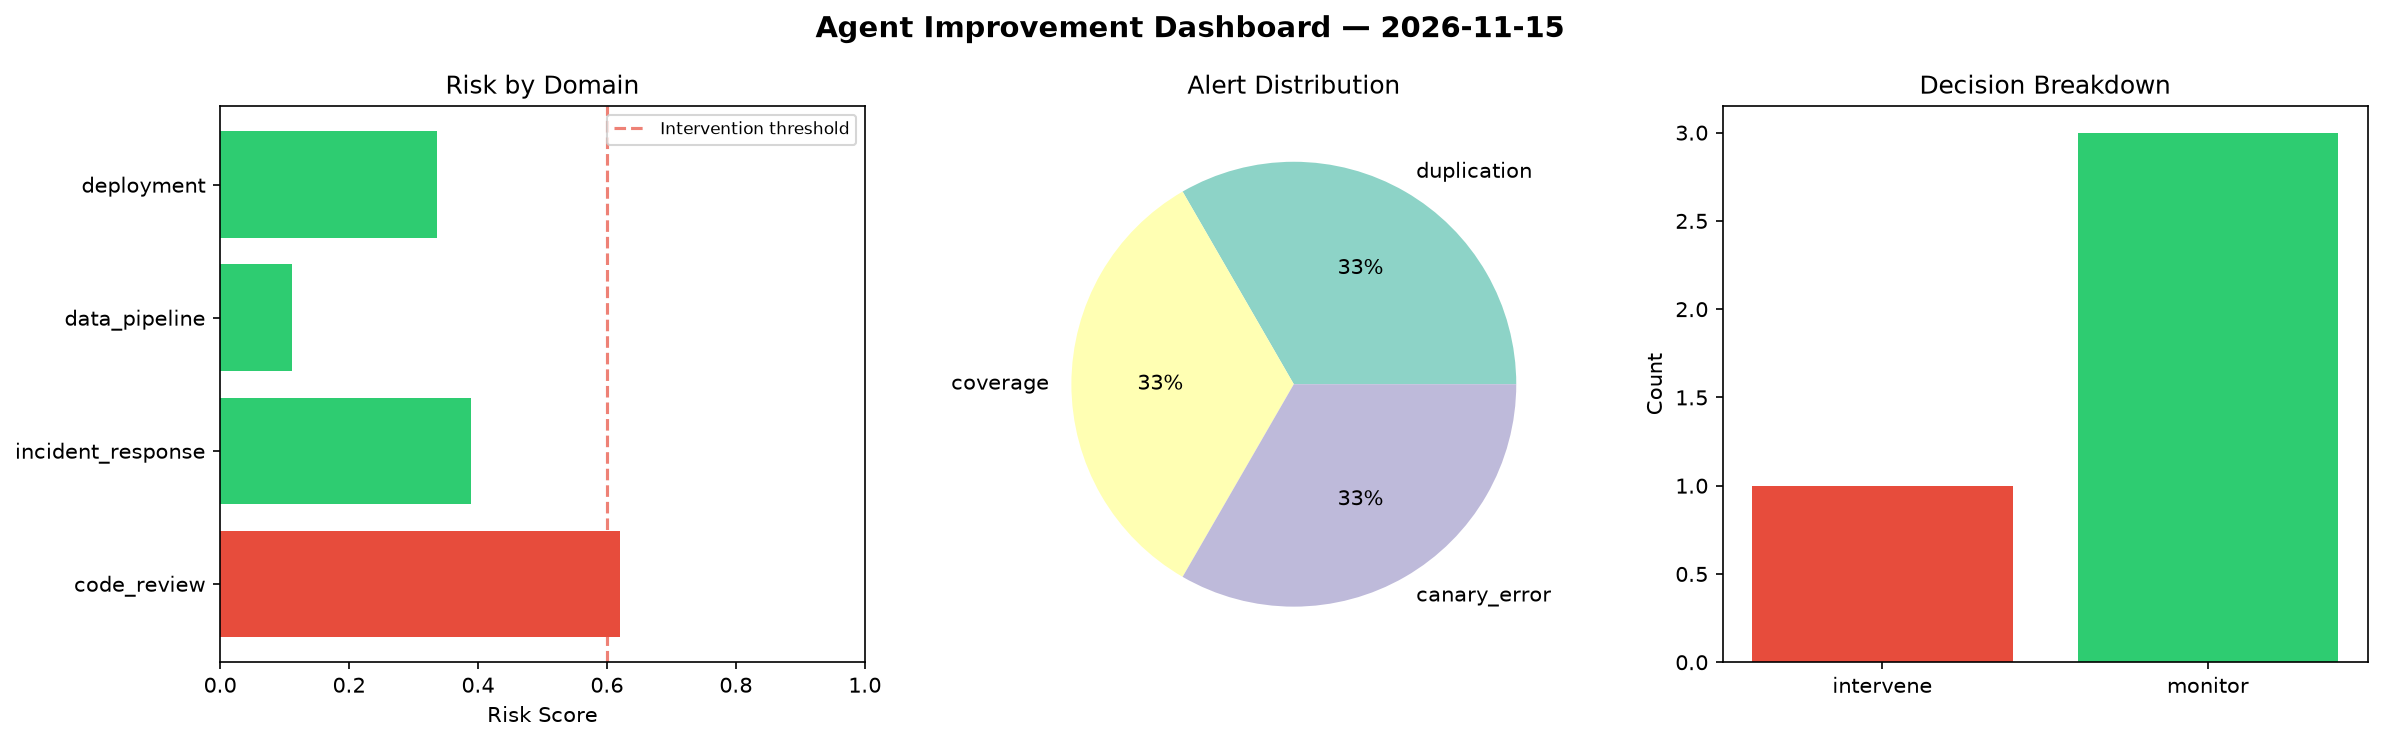
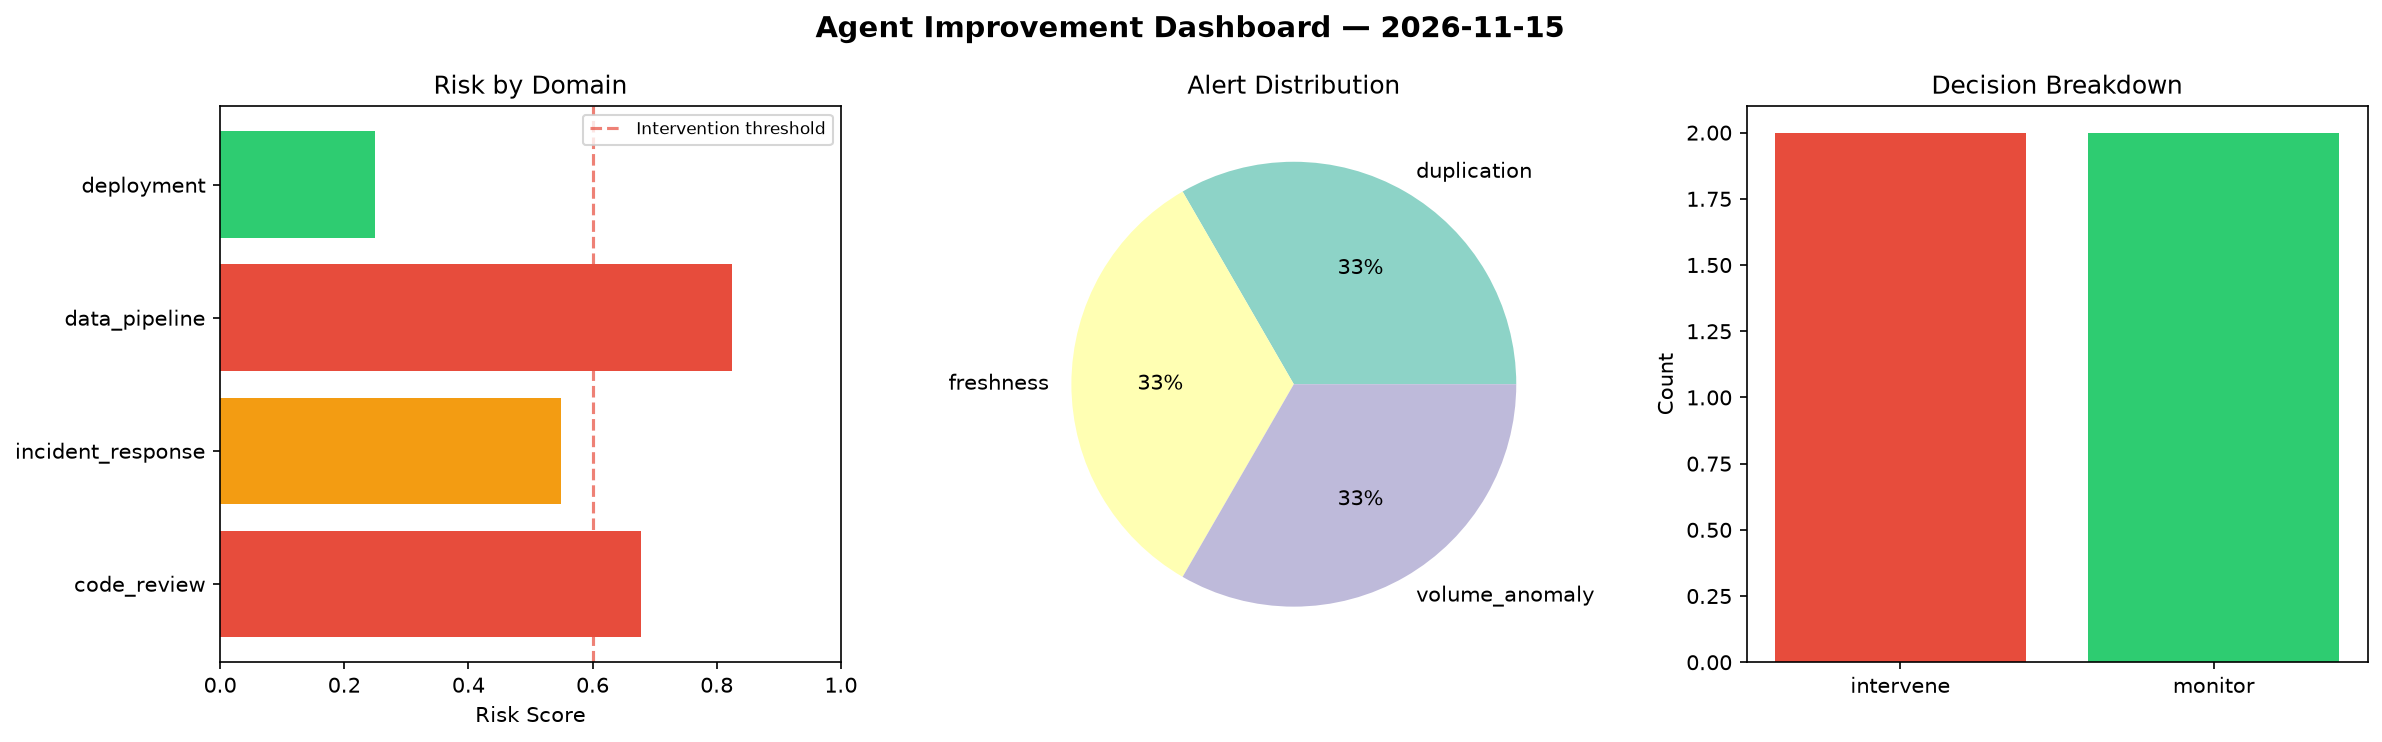
agent-improvement: daily cycle 2026-11-15T19:47

diff --git a/logs/2026-11-15.md b/logs/2026-11-15.md
@@ -1,6 +1,6 @@
 # Agent Improvement Report — 2026-11-15
 
-**Cycle ID:** `1e277704` | **Avg Risk:** 0.3641 | **Interventions:** 1/4
+**Cycle ID:** `202aa9d3` | **Avg Risk:** 0.5757 | **Interventions:** 2/4
 
 ![Dashboard](2026-11-15_dashboard.png)
 
@@ -10,18 +10,18 @@
 
 | Domain | Risk Score | Decision | Alerts |
 |--------|-----------|----------|--------|
-| code_review | 0.6196 | intervene | duplication, coverage |
-| incident_response | 0.3888 | monitor | none |
-| data_pipeline | 0.1111 | monitor | none |
-| deployment | 0.3371 | monitor | canary_error |
+| code_review | 0.6784 | intervene | duplication |
+| incident_response | 0.5499 | monitor | none |
+| data_pipeline | 0.8249 | intervene | freshness, volume_anomaly |
+| deployment | 0.2496 | monitor | none |
 
 ## Delta vs Yesterday
 
 | Domain | Today | Yesterday | Change |
 |--------|-------|-----------|--------|
-| code_review | 0.6196 | 0.4704 | 📈 31.7% |
-| incident_response | 0.3888 | 0.3289 | 📈 18.2% |
-| data_pipeline | 0.1111 | 0.6683 | 📉 -83.4% |
-| deployment | 0.3371 | 0.6398 | 📉 -47.3% |
+| code_review | 0.6784 | 0.4704 | 📈 44.2% |
+| incident_response | 0.5499 | 0.3289 | 📈 67.2% |
+| data_pipeline | 0.8249 | 0.6683 | 📈 23.4% |
+| deployment | 0.2496 | 0.6398 | 📉 -61.0% |
 
 **Refinement:** `{'adjustment': 'maintain', 'trend': 'improving', 'window': 4}`
